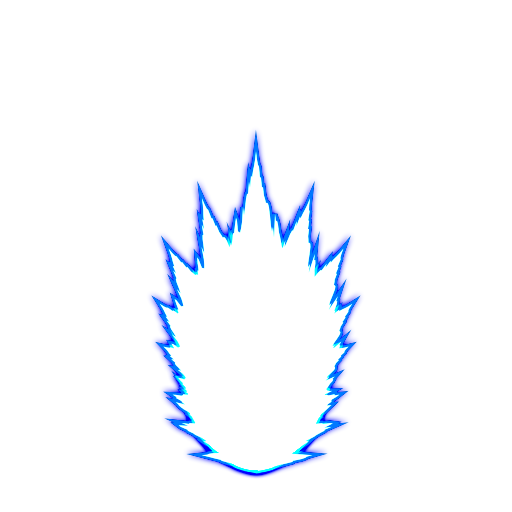
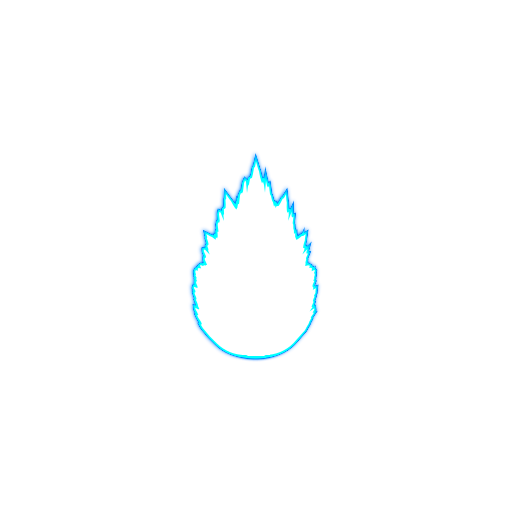
add editor base & improve Fireball class & fix some height bugs

diff --git a/src/Fireball.js b/src/Fireball.js
@@ -1,8 +1,31 @@
 /* classe permettant de dessiner une boule de feu d'une certaine couleur*/
 class Fireball {
 
+    static getInstanceFromData(data){
+        let fireball = new Fireball(); 
+        fireball.x = data.x;
+        fireball.y = data.y;
+        fireball.width = data.width;
+        fireball.height = data.height;
+        fireball.pivotX = data.pivotX;
+        fireball.pivotY = data.pivotY;
+        fireball.scaleX = data.scaleX;
+        fireball.scaleY= data.scaleY;
+        fireball.rotation = data.rotation;
+        fireball.fillColor = data.fillColor;
+        fireball.numPeaks = data.numPeaks;
+        fireball.shadowBlur = data.shadowBlur;
+        fireball.shadowColor = data.shadowColor;
+        fireball.edgeColor = data.edgeColor;
+        fireball.offset = data.offset;
+        fireball.power = data.power;
+        fireball.thickness = data.thickness;
 
-    constructor(width, height, color = "#ff0000", edgeColor = "#ffffff", shadowColor ="#ff0000") {
+        return fireball;
+    }
+
+
+    constructor(width = 100, height = 200, color = "#ffffff", edgeColor = "#ff0000", shadowColor ="#ff0000") {
         this.width = width;
         this.height = height;
         this.fillColor = color;
@@ -91,9 +114,17 @@ class Fireball {
         return (1 - x - Math.floor(1 - x));
     }
 
+    getSmartPivot(){
+        return {
+            x: this.width >> 1,
+            y:  this.height - ( this.width >> 1 )
+        }
+    }
+    
     // dessine une boule de feu 
     render(ctx) {
-
+        
+        let startHeight = this.height - ( this.width >> 1 );
         // save context
         ctx.save();
 
@@ -113,14 +144,16 @@ class Fireball {
 
         // draw path
         ctx.beginPath();
-        ctx.moveTo(0, this.height);
-
+        ctx.moveTo(0, startHeight);
+        
+        
         for (let i = 0; i < this.width; i++) {
-            ctx.lineTo(i, this.height - this.compose(i, this.width, this.offset) * this.height);
+            ctx.lineTo(i, startHeight - this.compose(i, this.width, this.offset) * startHeight);
         }
-
-        ctx.lineTo(this.width, this.height);
-        ctx.arc(this.width >> 1, this.height, this.width >> 1, 0, Math.PI);
+        
+        ctx.lineTo(this.width, startHeight);
+        ctx.arc(this.width >> 1, startHeight, this.width >> 1, 0, Math.PI);
+        ctx.lineTo(0, startHeight);
         ctx.fill();
         ctx.stroke();
         ctx.closePath();

diff --git a/src/aura.js b/src/aura.js
@@ -37,33 +37,14 @@ function init(config) {
         ctx.save();
 
         for (let i = 0; i < config.balls.length; i++) {
-
-            ball = config.balls[i];
-            
-            // geometry
-            fire.x = parseInt(ball.x); 
-            fire.y = parseInt(ball.y);
-            fire.width = parseInt(ball.width);
-            fire.height = parseInt(ball.height);
-            fire.pivotX = parseInt(fire.width / 2);
-            fire.pivotY = parseInt(fire.height);
-            fire.rotation = parseInt(ball.rot);
-            
-            // other configuration
+            fire = Fireball.getInstanceFromData(config.balls[i]);
             fire.offset = offset;
-            fire.power = parseFloat(config.power);
-            fire.numPeaks = parseInt(config.peaks);
-            fire.thickness = parseInt(config.lineWidth);
-            fire.shadowBlur = parseInt(config.shadowBlur);
-            fire.shadowColor = config.shadowColor;
-            fire.edgeColor = config.edgeColor;
-            fire.fillColor = config.fillColor;
 
 
             // draw fireball
             ctx.save();
             ctx.lineCap = config.lineCap;
-            ctx.globalCompositeOperation = ball.blend;
+            ctx.globalCompositeOperation = config.blend;
             fire.render(ctx);
             ctx.restore();
         }
